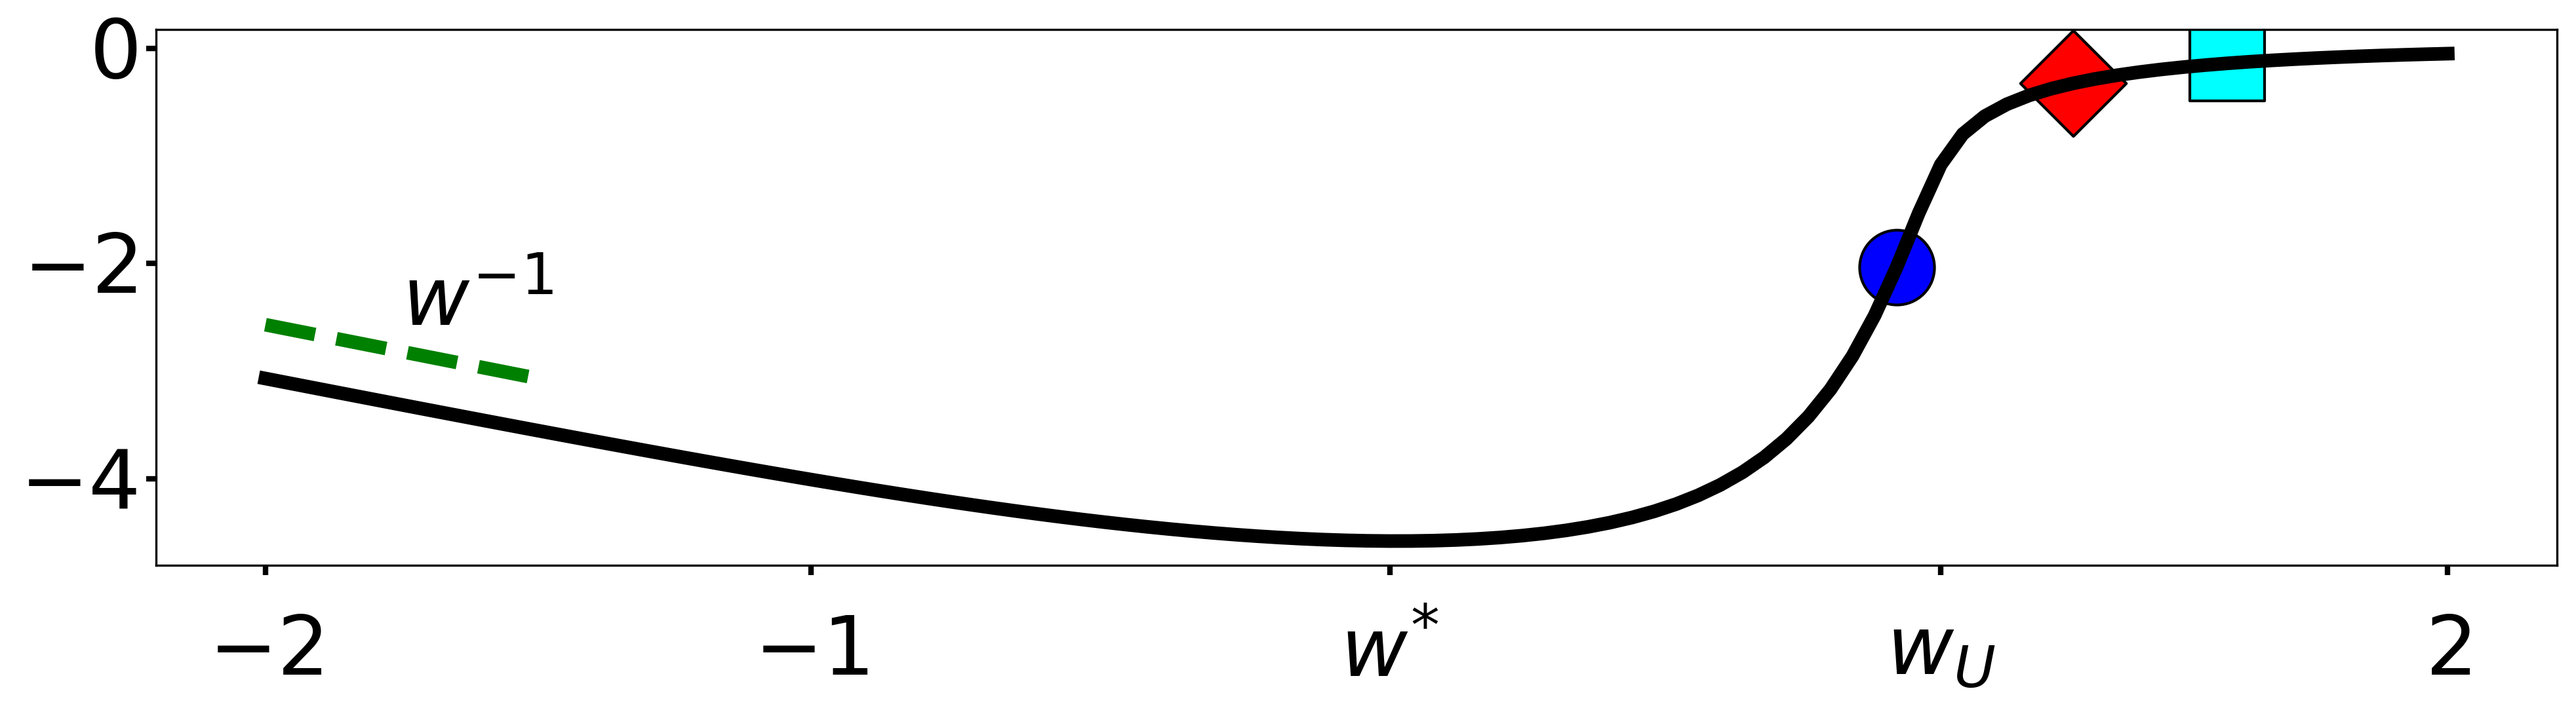
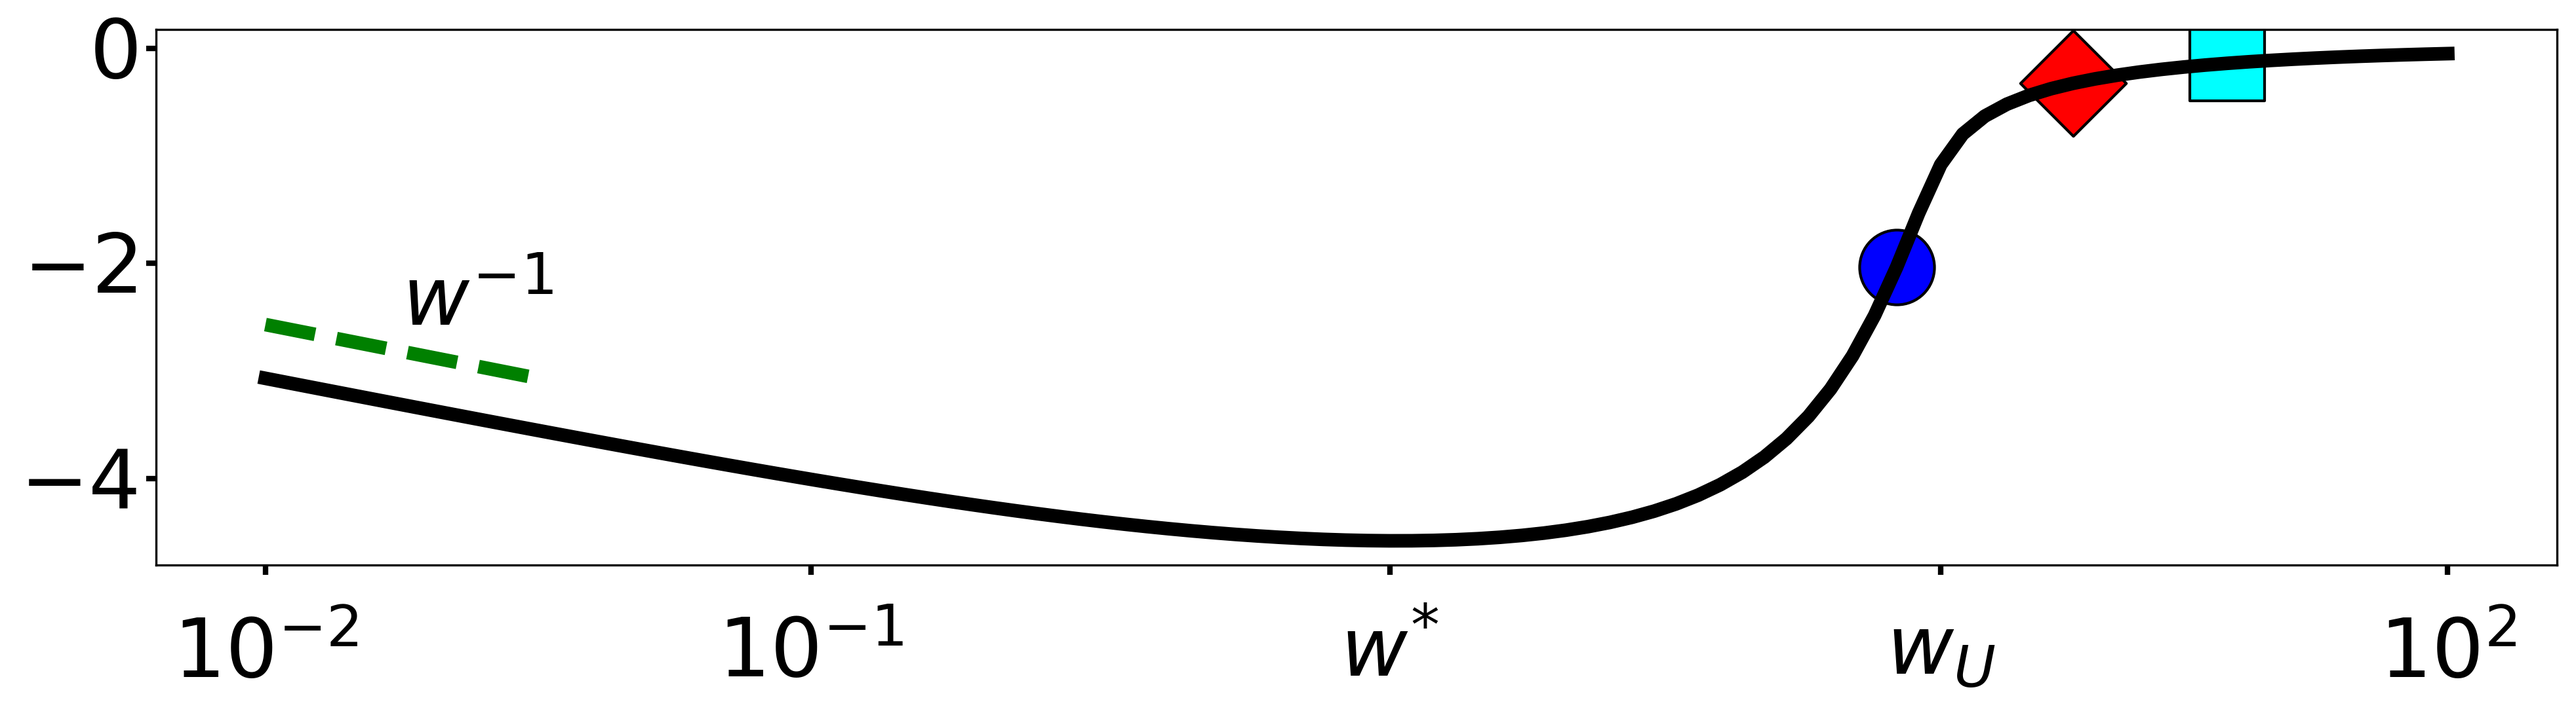
Made fig2 xaxis log properly

diff --git a/Simulations/Single/Global_Minimum/Plotting.py b/Simulations/Single/Global_Minimum/Plotting.py
@@ -419,7 +419,7 @@ plt.plot([np.log10(LList[index]),np.log10(LList[index])],
 #Formatting
 ax.set_xticks([-2,-1,MindR,MinCurvature,2])
 ax.set_xticklabels(
-    [r'$-2$',r'$-1$',r'$w^{*}$',r'$w_{U}$',r'$2$'])
+    [r'$10^{-2}$',r'$10^{-1}$',r'$w^{*}$',r'$w_{U}$',r'$10^{2}$'])
 
 ax.set_yticks([-4,-2,0])
 ax.set_yticklabels(
